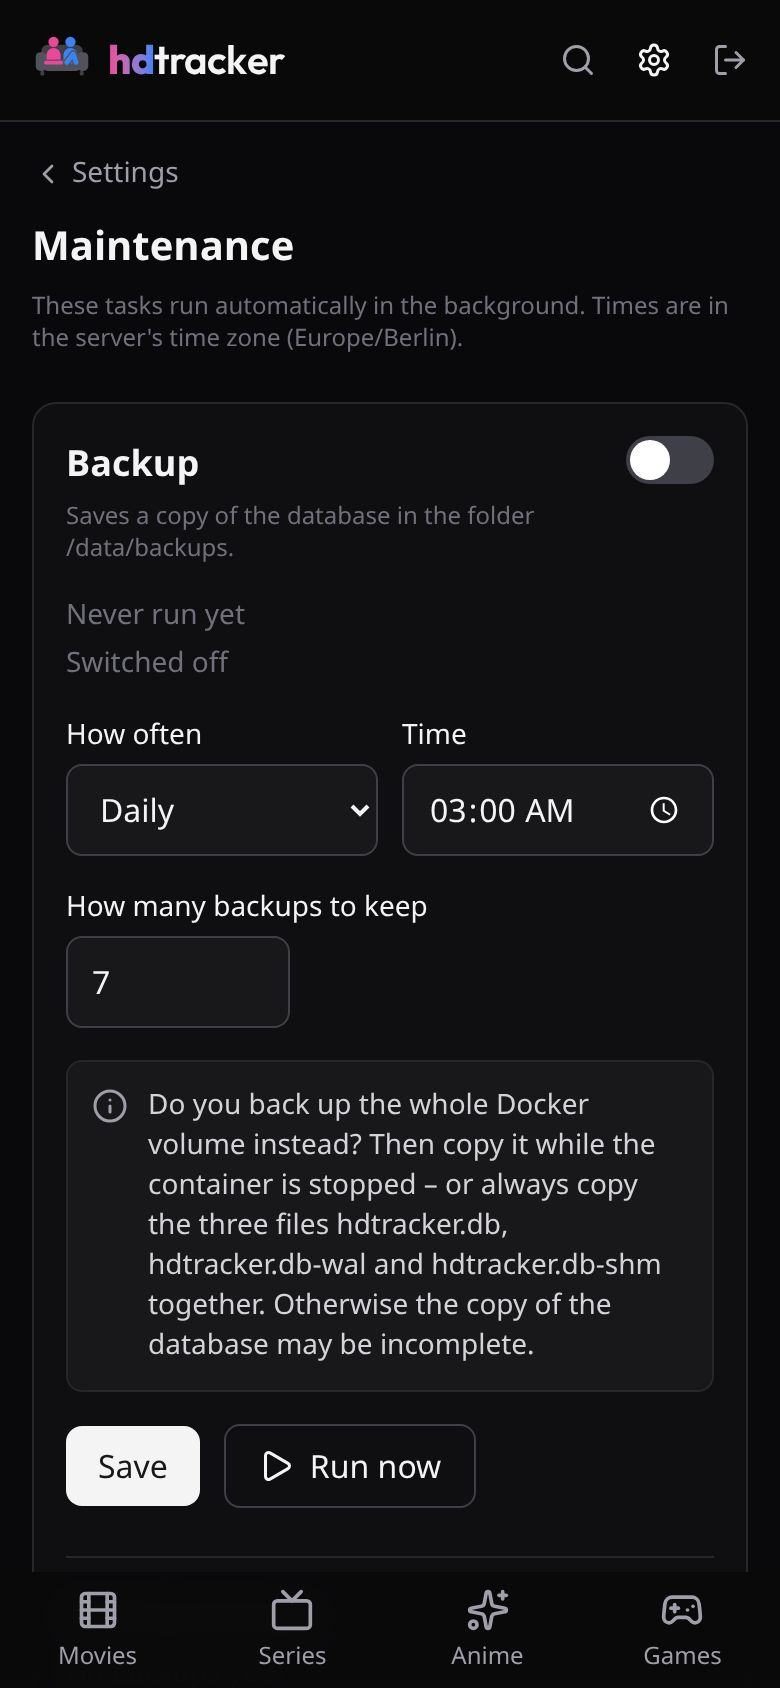
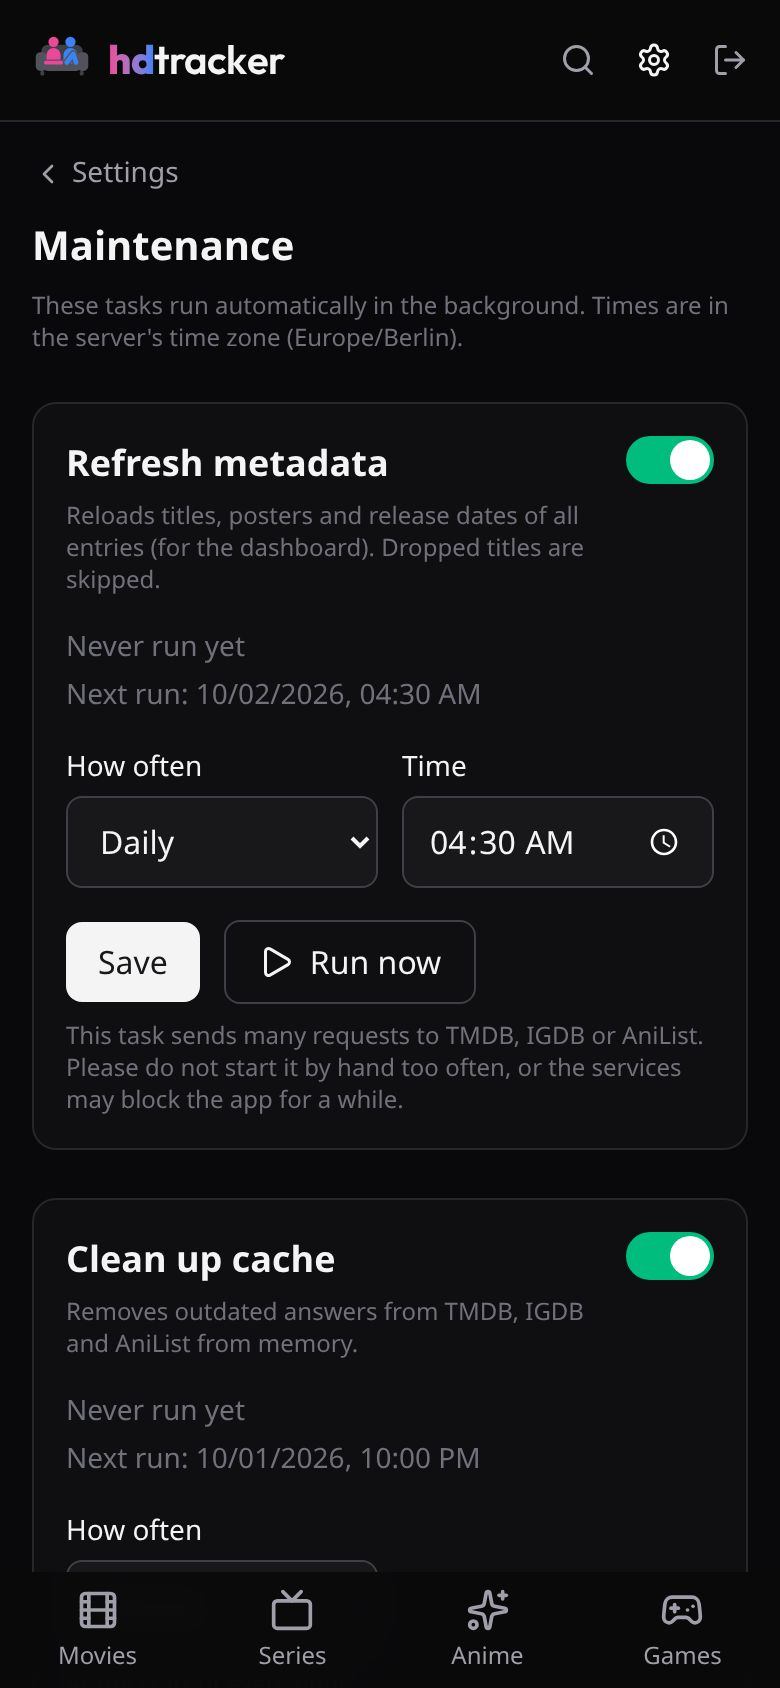
Maintenance: most-used tasks first, switched-off tasks last

diff --git a/src/lib/server/tasks/scheduler.ts b/src/lib/server/tasks/scheduler.ts
@@ -17,19 +17,19 @@ type TaskDef = {
 	defaults: Pick<TaskRow, 'enabled' | 'frequency' | 'time' | 'weekday'>;
 };
 
-// All background tasks, in display order.
+// All background tasks, in display order: the ones used most first, the backup (off by
+// default) last. On the page, switched-off tasks are listed below the active ones.
 export const TASKS = {
-	backup: {
-		run: createBackup,
-		usesApi: false,
-		// Off by default: most people back up the whole Docker volume anyway.
-		defaults: { enabled: false, frequency: 'daily', time: '03:00', weekday: 0 }
-	},
 	metadata: {
 		// Titles, posters and release dates of all library items (for the dashboard).
 		run: refreshAll,
 		usesApi: true,
 		defaults: { enabled: true, frequency: 'daily', time: '04:30', weekday: 0 }
+	},
+	cache: {
+		run: () => void pruneCache(),
+		usesApi: false,
+		defaults: { enabled: true, frequency: 'hourly', time: '00:00', weekday: 0 }
 	},
 	optimize: {
 		// Updates the query planner statistics and compacts the file.
@@ -47,10 +47,11 @@ export const TASKS = {
 		usesApi: false,
 		defaults: { enabled: true, frequency: 'daily', time: '03:30', weekday: 0 }
 	},
-	cache: {
-		run: () => void pruneCache(),
+	backup: {
+		run: createBackup,
 		usesApi: false,
-		defaults: { enabled: true, frequency: 'hourly', time: '00:00', weekday: 0 }
+		// Off by default: most people back up the whole Docker volume anyway.
+		defaults: { enabled: false, frequency: 'daily', time: '03:00', weekday: 0 }
 	}
 } satisfies Record<string, TaskDef>;
 
@@ -121,9 +122,14 @@ function ensureRows() {
 	}
 }
 
+// All tasks in display order: active ones first, switched-off ones below (each group in the
+// order of TASKS).
 export function listTasks(): TaskRow[] {
 	const rows = getDb().select().from(tasks).all();
-	return TASK_KEYS.map((key) => rows.find((r) => r.key === key)).filter((r) => r !== undefined);
+	const ordered = TASK_KEYS.map((key) => rows.find((r) => r.key === key)).filter(
+		(r) => r !== undefined
+	);
+	return [...ordered.filter((t) => t.enabled), ...ordered.filter((t) => !t.enabled)];
 }
 
 export function updateTask(

diff --git a/CHANGELOG.md b/CHANGELOG.md
@@ -16,6 +16,7 @@ All notable changes to hdtracker. Each version is also published as a [GitHub re
 ### 🔧 Improved
 
 - Settings → About links to the [documentation](https://github.com/dvnkln/hdtracker/wiki)
+- Maintenance: the tasks used most come first, switched-off tasks are listed last
 
 ## 0.2.0 – 2026-09-29
 
